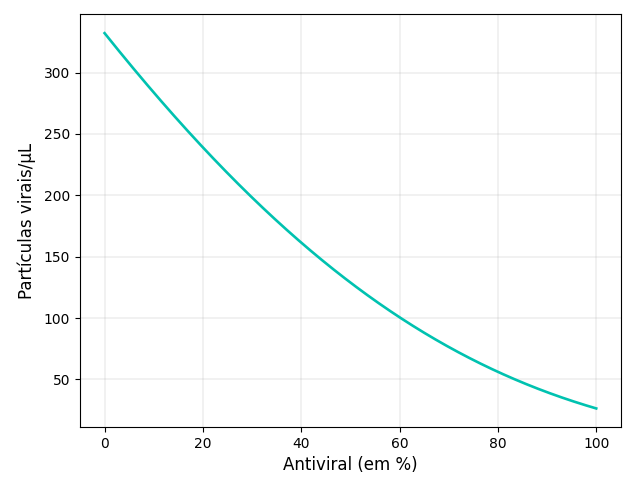
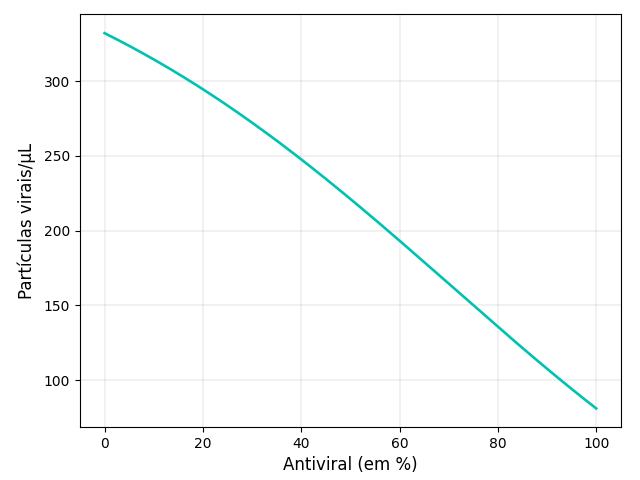
Refactor: Change output folder name to 'results' in generateGraphs.py

diff --git a/main.py b/main.py
@@ -7,15 +7,15 @@ for w in range(num_levels):                   # Loop through each remediocount v
     for n in range(time_counts - 1):          # Loop through each time step (except the last one)
         for r in range(kutta):                # Loop through the Runge-Kutta stages
 
-            ds[w,n,r] = wks_mu - alpha * s[w,n,r] - a * s[w,n,r] * v[w,n,r]                             # Rate of change for susceptible monocytes
-            di[w,n,r] = a * s[w,n,r] * v[w,n,r] - beta * i[w,n,r] - nu * i[w,n,r] * z[w,n,r]               # Rate of change for infected monocytes
-            dv[w,n,r] = (1 - remediocount[w]) * k * i[w,n,r] - gamma * v[w,n,r] - a * s[w,n,r] * v[w,n,r]  # Rate of change for viral particles
-            dz[w,n,r] = wks_eta + wks_c * i[w,n,r] + wks_d * i[w,n,r] * z[w,n,r] - delta * z[w,n,r]  # Rate of change for T lymphocytes
-            
             # ds[w,n,r] = wks_mu - alpha * s[w,n,r] - a * s[w,n,r] * v[w,n,r]                             # Rate of change for susceptible monocytes
-            # di[w,n,r] = (1 - remediocount[w]) * a * s[w,n,r] * v[w,n,r] - beta * i[w,n,r] - nu * i[w,n,r] * z[w,n,r]               # Rate of change for infected monocytes
-            # dv[w,n,r] = k * i[w,n,r] - gamma * v[w,n,r] - a * s[w,n,r] * v[w,n,r] * (1 - remediocount[w]) # Rate of change for viral particles
+            # di[w,n,r] = a * s[w,n,r] * v[w,n,r] - beta * i[w,n,r] - nu * i[w,n,r] * z[w,n,r]               # Rate of change for infected monocytes
+            # dv[w,n,r] = (1 - remediocount[w]) * k * i[w,n,r] - gamma * v[w,n,r] - a * s[w,n,r] * v[w,n,r]  # Rate of change for viral particles
             # dz[w,n,r] = wks_eta + wks_c * i[w,n,r] + wks_d * i[w,n,r] * z[w,n,r] - delta * z[w,n,r]  # Rate of change for T lymphocytes
+            
+            ds[w,n,r] = wks_mu - alpha * s[w,n,r] - a * s[w,n,r] * v[w,n,r] * (1 - remediocount[w])                          # Rate of change for susceptible monocytes
+            di[w,n,r] = (1 - remediocount[w]) * a * s[w,n,r] * v[w,n,r] - beta * i[w,n,r] - nu * i[w,n,r] * z[w,n,r]               # Rate of change for infected monocytes
+            dv[w,n,r] = k * i[w,n,r] - gamma * v[w,n,r] - a * s[w,n,r] * v[w,n,r] * (1 - remediocount[w]) # Rate of change for viral particles
+            dz[w,n,r] = wks_eta + wks_c * i[w,n,r] + wks_d * i[w,n,r] * z[w,n,r] - delta * z[w,n,r]  # Rate of change for T lymphocytes
 
             if r < (kutta - 1):  # Update intermediate stages for Runge-Kutta
                 s[w,n,r+1] = s[w,n,r] + h1 * ds[w,n,r]

diff --git a/generateGraphs.py b/generateGraphs.py
@@ -2,7 +2,7 @@ from project_libraries import *  # Importing necessary libraries for numerical c
 
 
 def save_file(nome):                       # Saves the file in a specific results folder
-    output_dir = "resultados"              # Name of the output folder
+    output_dir = "results"              # Name of the output folder
     if not os.path.exists(output_dir):     # Checks if the folder exists
         os.makedirs(output_dir)            # Creates the folder if it does not exist
     name = os.path.join(output_dir, nome)  # Full path of the file
